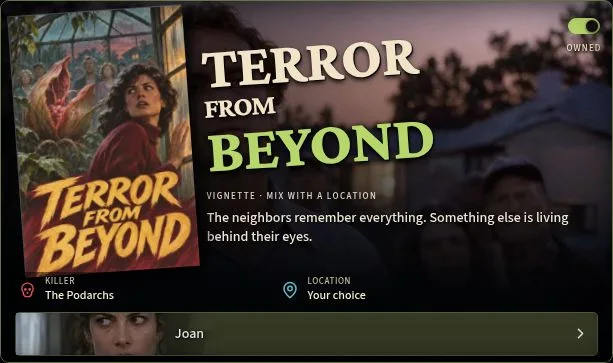
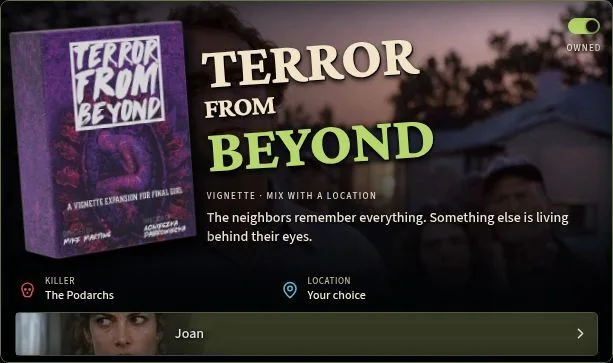
Use supplied Terror From Beyond Collection box photo

Changed region(s): [[0.0, 0.0, 0.3409, 0.7879]]

diff --git a/src/data/collectionArt.test.ts b/src/data/collectionArt.test.ts
@@ -58,4 +58,14 @@ describe("Collection artwork coverage", () => {
           );
         }
   });
+
+  it("uses the supplied Terror From Beyond box photo by default", () => {
+    const film = FEATURE_FILMS.find(({ id }) => id === "s4-terror-from-beyond");
+    expect(getBoxArtThumbnail(film?.boxArt)).toMatch(
+      /collection-thumbnails\/terror-from-beyond\.webp$/,
+    );
+    expect(getBoxArtThumbnail(film?.boxArtAi)).toMatch(
+      /collection-thumbnails\/ai\/terror-from-beyond\.webp$/,
+    );
+  });
 });

diff --git a/src/assets/collection-scenes/README.md b/src/assets/collection-scenes/README.md
@@ -16,6 +16,7 @@ Sources are original generation filenames; row order is top to bottom. Three-row
 | `grave`, `falconwood`, `mall` | `exec-700c546c-d2f6-4dec-8895-83d9fa8b3e31.png` |
 | `hellscape`, `warehouse`, `utopia` | `exec-5eaa0f62-920e-427c-979c-52066de1e8e0.png` |
 | `destiny`, `convention`, `harvest` | `exec-b4725f85-76b7-46f5-b83e-15cfe80e63ca.png` |
+| `podarchs` | [Terror From Beyond art ledger](../play/photos/podarchs/README.md) |
 | `upcoming-shadows`, `upcoming-green` | `exec-b97cbcf9-5608-47f7-9b47-83f941f08a2e.png` |
 
 `src/data/collectionArt.ts` maps stable film IDs to scenes, colors, and authored live-text title line breaks/scales. Every catalog entry must be covered; unit tests check names and uniqueness. Each film now uses a distinct real title face from the art manifest. See `../fonts/collection/README.md` for the twenty new display faces, supporting Source Sans 3 and their bundled licenses; Caveat, Barlow Condensed and IM Fell each remain assigned to one film. Never bake controls or text into an illustration.
@@ -23,5 +24,7 @@ Sources are original generation filenames; row order is top to bottom. Three-row
 `npm run images:collection` regenerates cover/portrait derivatives using ImageMagick. Cover derivatives use a 384×576 maximum, Lanczos resizing and a restrained unsharp mask for the larger shelf presentation. Uniform empty cover margins are trimmed only in the derivative; the entire actual box stays visible with `object-fit: contain`. Portraits remain small full-image derivatives with CSS display crops; opening the modal loads the original selected portrait. The existing official/AI preference selects the corresponding derivative by source URL, including the separately supplied Buddyland cover.
 
 Budget: every scene ≤200KiB, cover derivative ≤96KiB and portrait derivative ≤30KiB, enforced by `check:assets`. Missing scene images leave readable card content; missing covers show Cover unavailable; missing portrait crops show an initial while the named info button remains usable. Reload or a changed source preference can retry an image.
+
+The owner-supplied *Terror From Beyond* box photo is preserved in [box-art](../box-art/terror-from-beyond.png). Its [384×509 shelf derivative](../collection-thumbnails/terror-from-beyond.webp) trims the transparent margins around the full box.
 
 The 2026-10-26 cinematic refinement preserves these scene files. Directional darkness, edge vignette, sparse foreground scratches/mist and the strongly dimmed unowned presentation are live CSS layers, with a single subtle outer frame. Keep ownership actions legible and all touch targets at least 44px when changing the visual control sizes.

diff --git a/docs/imports/podarchs.md b/docs/imports/podarchs.md
@@ -52,7 +52,7 @@ Joan has five Health on both faces. Her four rescue rewards are move one space, 
 
 ## Artwork and verification
 
-The Play catalog includes 19 photographic scenes and eight small chooser derivatives. Collection and casting have the film scene, illustrated alternate cover, cast portraits and shelf thumbnails. Joan’s Health strip has two additional expressions from the same photographic session. See the [art ledger](../../src/assets/play/photos/podarchs/README.md). The publisher listing identifies the release. The supplied photos contain no box front. The Collection uses the existing alternate-cover fallback. [Publisher listing](https://vanrydergames.com/products/final-girl-terror-from-beyond-vignette)
+The Play catalog includes 19 photographic scenes and eight small chooser derivatives. Collection defaults to the owner-supplied box photo. The illustrated cover is available with the alternate art preference. Collection and casting also have the film scene, cast portraits and shelf thumbnails. Joan’s Health strip has two additional expressions from the same photographic session. [Art ledger](../../src/assets/play/photos/podarchs/README.md) · [Publisher listing](https://vanrydergames.com/products/final-girl-terror-from-beyond-vignette)
 
 The focused Playwright journeys cover opening Joan’s dossier, reading the rules in a mixed cast without writing a log, optional assimilation, the Hostile threshold, both Minors, a rescue, card selection, named Finale correction, Greenhouse Health and escape, Countdown and Leader Final Health, and reload. The first screenshot review showed oversized objective hearts and an oversized assimilation photograph. Both now use bounded sizes. Browser services are mocked. Unit coverage includes sparse and named Finish choices, Undo, owner validation, quantities and source-specific Event compatibility.
 
